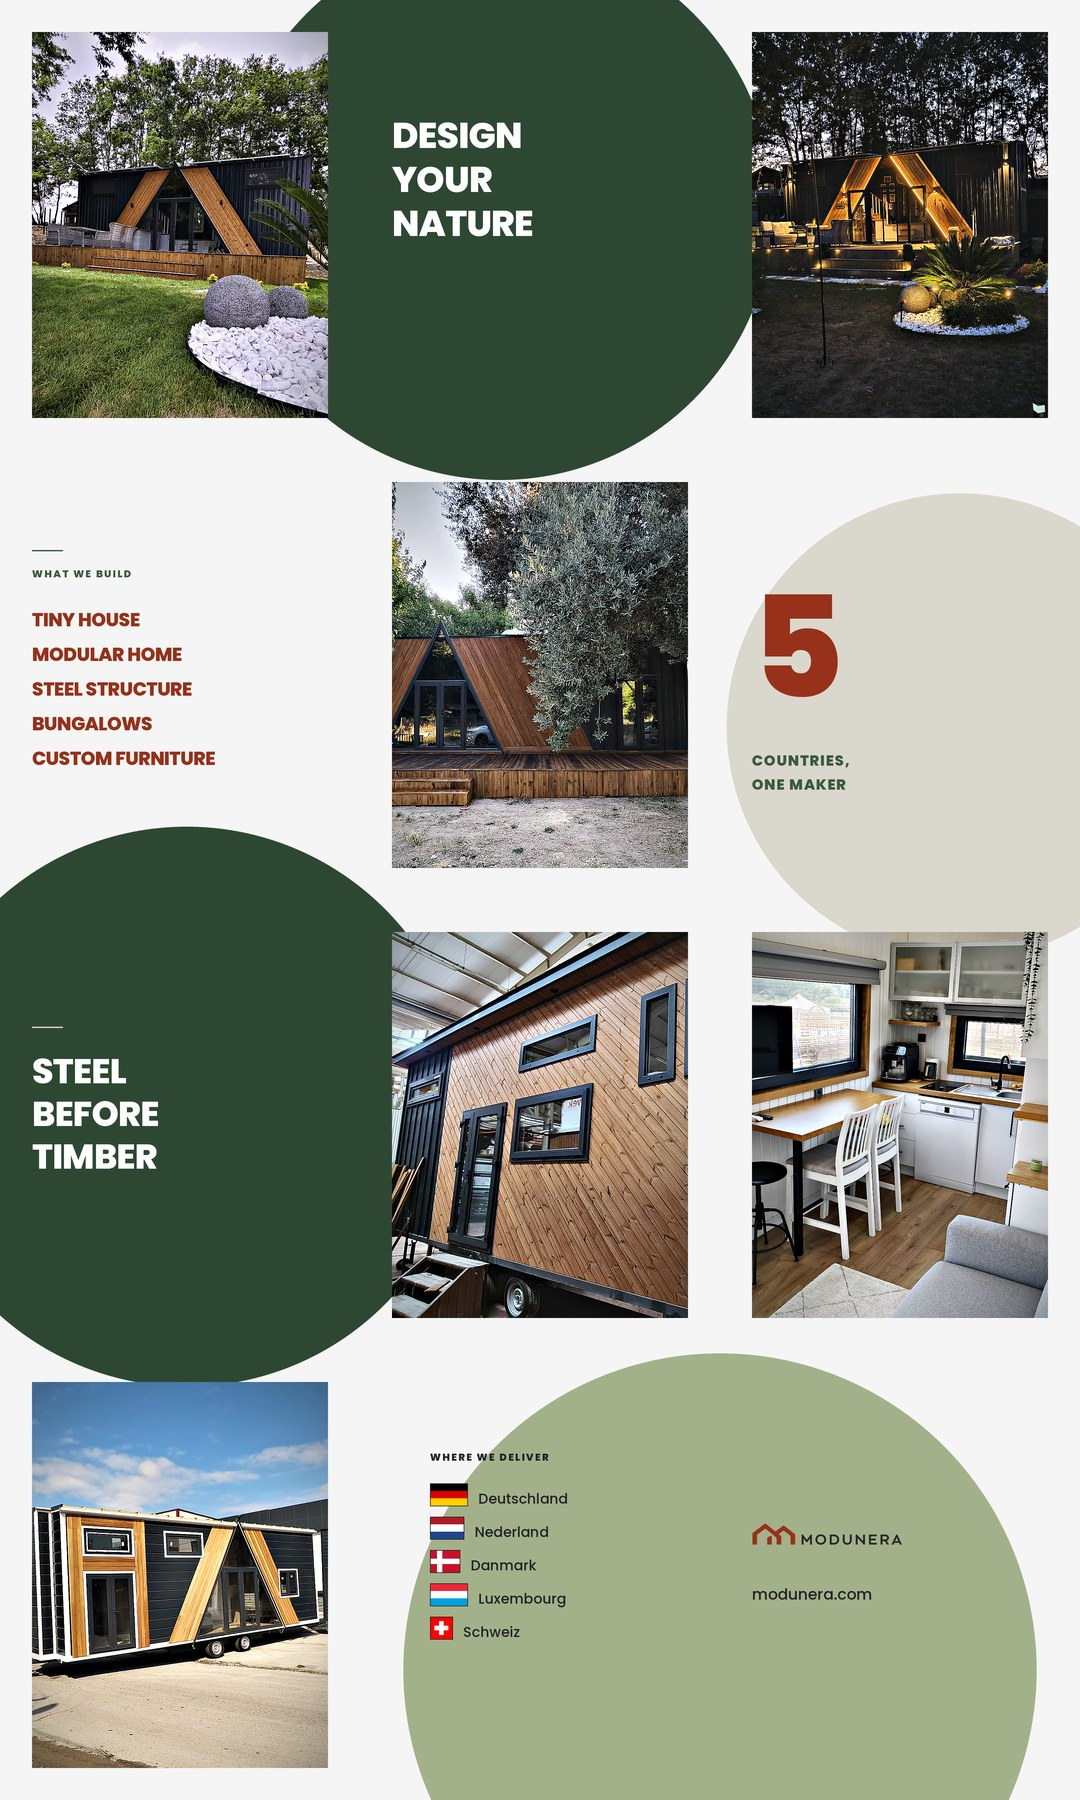
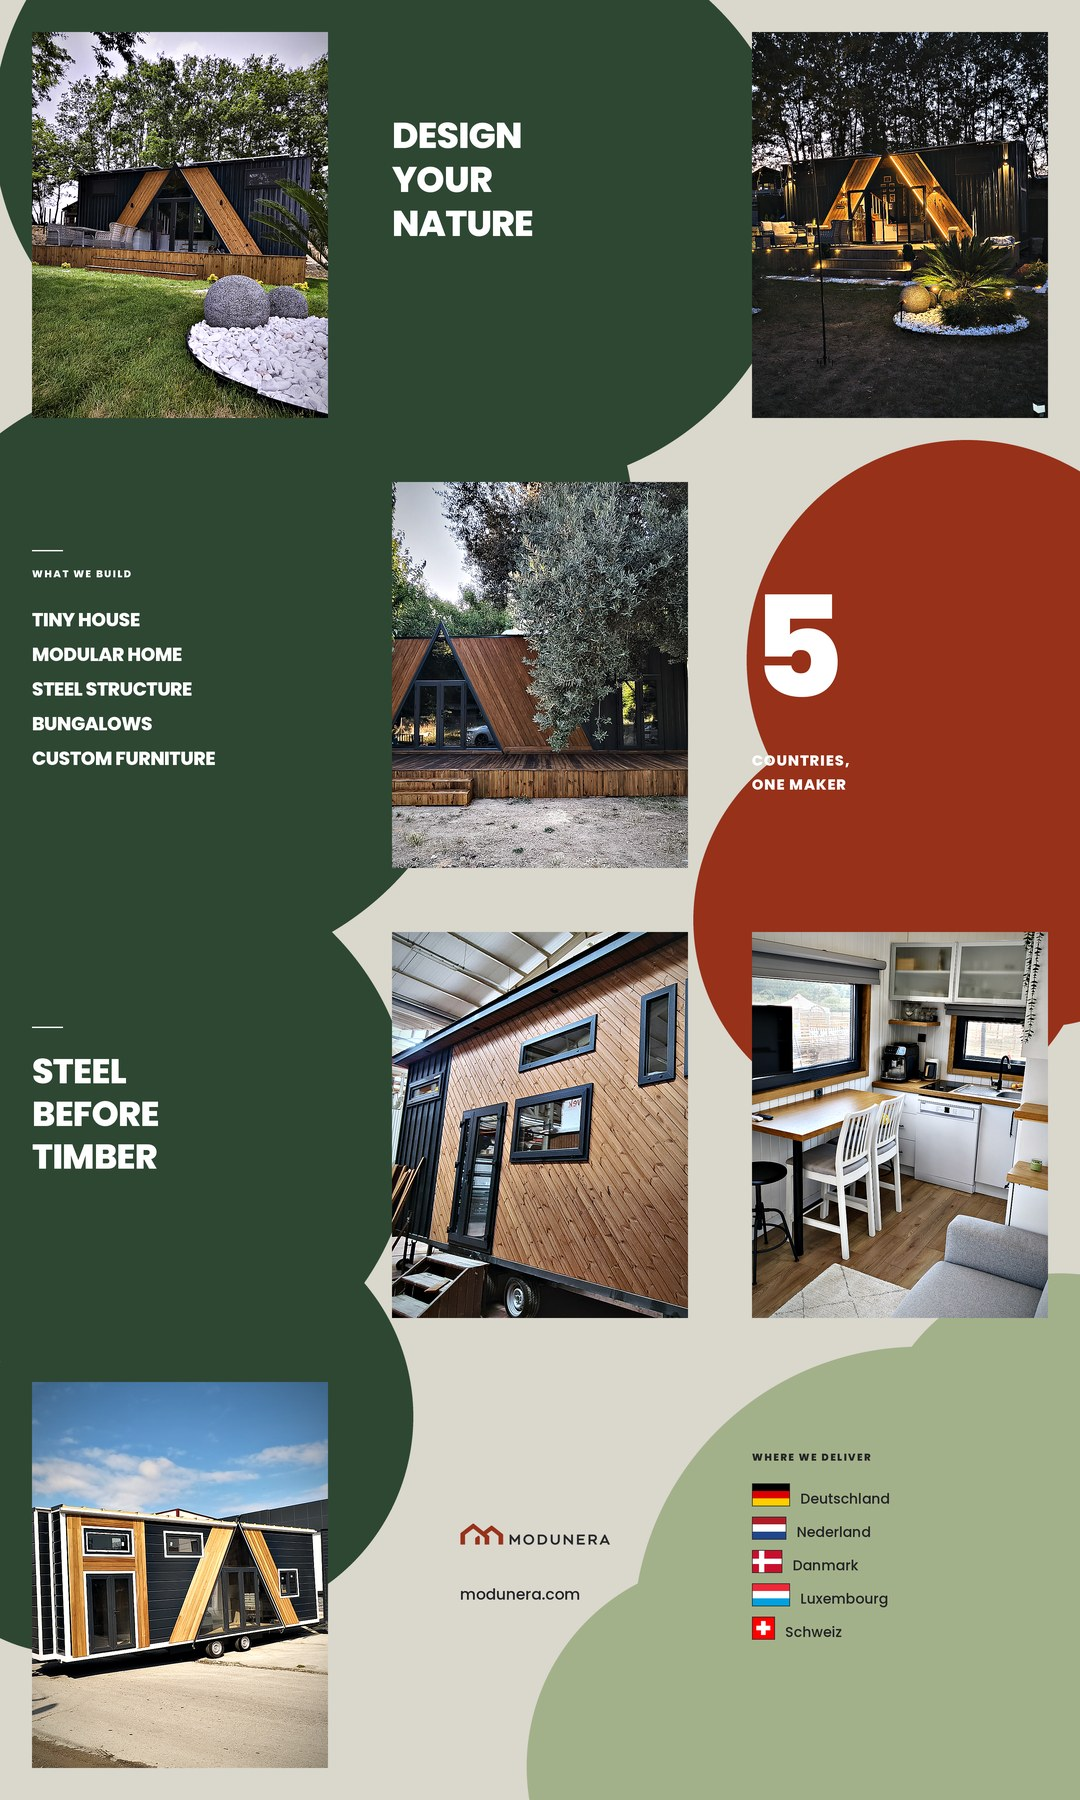
social: make the board dense and connected, and let it say when type is unplaceable
Two criticisms, both right. The ground was near-white, which reads as a template
rather than as a brand — it is cream now. And the shapes were four discs sitting
apart, which reads as islands on a page: the reference boards chain their fields
so colour runs from one corner to the other, and that continuity is the connection.
Coverage went from about 25 % to 55 %, with each field several circles merged.

Merged properly, which took a second attempt. Pasting circles one over the next
blends each antialiased rim into the mask already there, and the rim survives as a
faint arc inside what should be one field. The masks are unioned first and the
colour painted once.

Type is no longer given a colour against an assumed ground. The fields moved when
the composition was adjusted and the type did not go with them: the figure 5 was
written in roof red onto what had become a roof-red field and disappeared
completely. Every element now samples the board where it will sit and takes the
palette colour that clears 4.5:1 there.

And when nothing clears it, that is reported rather than resolved. A box that
straddles cream and moss has no readable ink at all — it is a layout fault, not a
colour choice, and picking whichever looks least bad is how "Deutschland" ended up
white on cream. The check found two: the flags, straddling three fields at once,
and the WHAT WE BUILD list, half on moss and half on cream. The flags moved whole
[…]

diff --git a/tools/social/build_puzzle_trials.py b/tools/social/build_puzzle_trials.py
@@ -32,7 +32,7 @@ from __future__ import annotations
 import sys
 from pathlib import Path
 
-from PIL import Image, ImageDraw
+from PIL import Image, ImageChops, ImageDraw
 
 sys.path.insert(0, str(Path(__file__).resolve().parent))
 import build_instagram_grid as g  # noqa: E402
@@ -81,6 +81,64 @@ def tile_xy(col: int, row: int) -> tuple[int, int]:
     return col * TW, row * TH
 
 
+def blob(board: Image.Image, circles: list[tuple[int, int, int]], colour) -> None:
+    """Several overlapping circles painted as one shape.
+
+    Pasting them one at a time leaves a seam wherever two overlap, because each
+    paste blends its own antialiased edge over the last. Union the masks first and
+    paint once, and the result is a single organic field with no internal edges.
+
+    This is what the first version of this board was missing. Discs placed apart
+    read as four islands on a page; the reference boards chain their shapes so a
+    field runs from one corner of the board to the other, and that continuity is
+    the connection — not the fact that the ground is the same colour underneath.
+    """
+    mask = Image.new("L", board.size, 0)
+    for cx, cy, r in circles:
+        size = r * 2
+        m = Image.new("L", (size * 2, size * 2), 0)
+        ImageDraw.Draw(m).ellipse((0, 0, size * 2 - 1, size * 2 - 1), fill=255)
+        layer = Image.new("L", board.size, 0)
+        layer.paste(m.resize((size, size), Image.LANCZOS), (cx - r, cy - r))
+        # lighter, not paste: the union of the masks. Pasting each circle over the
+        # last blends its antialiased rim into the mask that is already there, and
+        # the rim survives as a faint arc inside what should be a single field.
+        mask = ImageChops.lighter(mask, layer)
+    board.paste(Image.new("RGB", board.size, colour), (0, 0), mask)
+
+
+STRADDLED: list = []
+
+
+def type_on(board: Image.Image, box: tuple[int, int, int, int]):
+    """The palette colour that can be read on whatever the board has there.
+
+    The fields move when the composition is adjusted, and type placed against an
+    assumed ground goes with them: the figure 5 was written in roof red onto what
+    had become a roof-red field and vanished completely, and two country names
+    ended up straddling the seam between moss and cream. Sampling the board where
+    the type will go removes the assumption — the layout can be moved freely and
+    the colours follow.
+
+    The darkest patch in the box decides, not the average: type has to be legible
+    over all of what it crosses, not over most of it.
+    """
+    grey = board.crop(box).convert("L")
+    hist = sorted(v for v in grey.get_flattened_data())
+    dark = hist[int(len(hist) * 0.10)]
+    light = hist[int(len(hist) * 0.90)]
+    for candidate in (g.WHITE, g.CREAM, g.CHARCOAL, g.ROOF, g.INK):
+        if min(g.contrast(candidate, (dark,) * 3),
+               g.contrast(candidate, (light,) * 3)) >= 4.5:
+            return candidate
+    # Nothing clears 4.5 against both ends, which means the box straddles a light
+    # field and a dark one. That is a layout fault, not a colour choice — no ink
+    # is readable on cream and moss at once — so it is reported instead of being
+    # papered over with whichever colour looks least bad.
+    STRADDLED.append((box, dark, light))
+    return g.WHITE if dark < 110 else g.CHARCOAL
+
+
 def disc(board: Image.Image, cx: int, cy: int, r: int, colour) -> None:
     """A circle big enough to cross tiles, drawn smooth.
 
@@ -113,14 +171,17 @@ def trial_a() -> Image.Image:
     margin so the ground and the discs run behind them rather than being
     interrupted.
     """
-    b = Image.new("RGB", (BW, BH), g.PAPER)
+    b = Image.new("RGB", (BW, BH), g.CREAM)
     M = 96
 
-    #        centre                 radius  colour
-    disc(b, 1500, 620, 820, g.MOSS_DEEP)     # under tiles 1-2-3, into row 2
-    disc(b, 2880, 2180, 700, g.CREAM)        # tile 6, into 9
-    disc(b, 560, 3320, 840, g.MOSS_DEEP)     # tiles 4-7
-    disc(b, 2160, 5010, 950, g.SAGE)         # centred on the seam of 11-12
+    # Four fields, each several circles merged, chained so colour runs from the
+    # top of the board to the bottom without a break. Coverage is about 55 % —
+    # the first version sat near 25 % and read as islands on a page.
+    blob(b, [(760, 380, 780), (1560, 620, 840), (1180, 1560, 720),
+         (540, 2020, 900)], g.MOSS_DEEP)   # the last one takes tile 4 whole
+    blob(b, [(2900, 1980, 660), (2680, 2760, 600), (3120, 2600, 480)], g.ROOF)
+    blob(b, [(420, 3380, 820), (620, 4250, 620), (200, 4500, 460)], g.MOSS_DEEP)
+    blob(b, [(2760, 4900, 860), (3180, 4380, 560), (2200, 5300, 620)], g.SAGE)
     d = ImageDraw.Draw(b)
 
     # Every element is placed against the disc it lands on, not against the page.
@@ -131,58 +192,67 @@ def trial_a() -> Image.Image:
     # row 1 — photograph, the slogan on the moss disc, photograph
     b.paste(photo("lawn", TW - M * 2, TH - M * 2, 0.36), (M, M))
     x, y = tile_xy(1, 0)
+    c = type_on(b, (x + M, y + 300, x + TW - M, y + 740))
     for i, line in enumerate(["DESIGN", "YOUR", "NATURE"]):
-        g.tracked(d, (x + M, y + 330 + i * 132), line, g.F_TITLE(108), g.WHITE,
+        g.tracked(d, (x + M, y + 330 + i * 132), line, g.F_TITLE(108), c,
                   tracking=-108 * 0.021)
     x, y = tile_xy(2, 0)
     b.paste(photo("night", TW - M * 2, TH - M * 2, 0.46), (x + M, y + M))
 
     # row 2 — the list on paper, a photograph, the figure on the cream disc
     x, y = tile_xy(0, 1)
-    d.rectangle([x + M, y + 300, x + M + 92, y + 303], fill=g.INK)
-    g.tracked(d, (x + M, y + 350), "WHAT WE BUILD", g.F_LABEL(30), g.INK, tracking=30 * 0.15)
+    c = type_on(b, (x + M, y + 290, x + TW - M, y + 1000))
+    d.rectangle([x + M, y + 300, x + M + 92, y + 303], fill=c)
+    g.tracked(d, (x + M, y + 350), "WHAT WE BUILD", g.F_LABEL(30), c, tracking=30 * 0.15)
     for i, line in enumerate(["TINY HOUSE", "MODULAR HOME", "STEEL STRUCTURE",
                               "BUNGALOWS", "CUSTOM FURNITURE"]):
-        g.tracked(d, (x + M, y + 470 + i * 104), line, g.F_TITLE(56), g.ROOF,
+        g.tracked(d, (x + M, y + 470 + i * 104), line, g.F_TITLE(56), c,
                   tracking=-56 * 0.021)
     x, y = tile_xy(1, 1)
     b.paste(photo("grove", TW - M * 2, TH - M * 2, 0.52), (x + M, y + M))
     x, y = tile_xy(2, 1)
-    g.tracked(d, (x + M, y + 300), "5", g.F_TITLE(420), g.ROOF, tracking=0)
-    g.tracked(d, (x + M, y + 900), "COUNTRIES,", g.F_LABEL(44), g.INK, tracking=44 * 0.15 * 0.42)
-    g.tracked(d, (x + M, y + 972), "ONE MAKER", g.F_LABEL(44), g.INK, tracking=44 * 0.15 * 0.42)
+    c = type_on(b, (x + M, y + 300, x + TW - M, y + 1030))
+    g.tracked(d, (x + M, y + 300), "5", g.F_TITLE(420), c, tracking=0)
+    g.tracked(d, (x + M, y + 900), "COUNTRIES,", g.F_LABEL(44), c, tracking=44 * 0.15 * 0.42)
+    g.tracked(d, (x + M, y + 972), "ONE MAKER", g.F_LABEL(44), c, tracking=44 * 0.15 * 0.42)
 
     # row 3 — a statement on the second moss disc, then two photographs
     x, y = tile_xy(0, 2)
-    d.rectangle([x + M, y + 380, x + M + 92, y + 383], fill=g.CREAM)
+    c = type_on(b, (x + M, y + 370, x + TW - M, y + 830))
+    d.rectangle([x + M, y + 380, x + M + 92, y + 383], fill=c)
     for i, line in enumerate(["STEEL", "BEFORE", "TIMBER"]):
-        g.tracked(d, (x + M, y + 440 + i * 128), line, g.F_TITLE(104), g.WHITE,
+        g.tracked(d, (x + M, y + 440 + i * 128), line, g.F_TITLE(104), c,
                   tracking=-104 * 0.021)
     x, y = tile_xy(1, 2)
     b.paste(photo("cladding", TW - M * 2, TH - M * 2, 0.30), (x + M, y + M))
     x, y = tile_xy(2, 2)
     b.paste(photo("kitchen", TW - M * 2, TH - M * 2, 0.5), (x + M, y + M))
 
-    # row 4 — a photograph, then the flags and the lockup on the sage disc
+    # row 4 — a photograph, the lockup on cream, the flags on the sage field.
+    # The flags were in the middle tile and straddled moss, cream and sage at once;
+    # no ink is readable across all three. Moved whole onto one field instead.
     x, y = tile_xy(0, 3)
     b.paste(photo("trailer", TW - M * 2, TH - M * 2, 0.5), (x + M, y + M))
+
     x, y = tile_xy(1, 3)
-    g.tracked(d, (x + 210, y + 300), "WHERE WE DELIVER", g.F_LABEL(30), g.CHARCOAL,
-              tracking=30 * 0.15)
-    yy = y + 400
-    for code in g.FLAG_ORDER:
-        f = g.flag(code, 68)
-        b.paste(f, (x + 210, yy))
-        d.rectangle([x + 210, yy, x + 210 + f.width, yy + 68], outline=g.CHARCOAL, width=2)
-        g.tracked(d, (x + 210 + f.width + 32, yy + 16), g.FLAGS[code]["name"],
-                  g.F_BODY(42), g.CHARCOAL, tracking=0)
-        yy += 100
-    x, y = tile_xy(2, 3)
     logo = Image.open(g.BRAND / "modunera-master-logo-mountain-v1-600.png").convert("RGBA")
     lw = 460
     logo = logo.resize((lw, round(logo.height * lw / logo.width)), Image.LANCZOS)
-    b.paste(logo, (x + M, y + 520), logo)
-    g.tracked(d, (x + M, y + 700), "modunera.com", g.F_BODY(46), g.CHARCOAL, tracking=0)
+    b.paste(logo, (x + 300, y + 520), logo)
+    g.tracked(d, (x + 300, y + 700), "modunera.com", g.F_BODY(46),
+              type_on(b, (x + 300, y + 690, x + 300 + 340, y + 756)), tracking=0)
+
+    x, y = tile_xy(2, 3)
+    c = type_on(b, (x + M, y + 290, x + TW - M, y + 950))
+    g.tracked(d, (x + M, y + 300), "WHERE WE DELIVER", g.F_LABEL(30), c, tracking=30 * 0.15)
+    yy = y + 400
+    for code in g.FLAG_ORDER:
+        f = g.flag(code, 68)
+        b.paste(f, (x + M, yy))
+        d.rectangle([x + M, yy, x + M + f.width, yy + 68], outline=c, width=2)
+        g.tracked(d, (x + M + f.width + 32, yy + 16), g.FLAGS[code]["name"],
+                  g.F_BODY(42), c, tracking=0)
+        yy += 100
     return b
 
 
@@ -257,6 +327,11 @@ def main() -> None:
         sheet(board, OUT / f"trial-{name}.jpg")
         board.resize((BW // 3, BH // 3), Image.LANCZOS).save(
             OUT / f"board-{name}.jpg", quality=88, optimize=True)
+        if STRADDLED:
+            for box, dark, light in STRADDLED:
+                print(f"  WARN type at {box} straddles ground {dark}-{light}; "
+                      f"no palette colour clears 4.5 on both", file=sys.stderr)
+            STRADDLED.clear()
         print(f"{name}: {OUT.relative_to(g.ROOT)}/trial-{name}.jpg")
 
 
